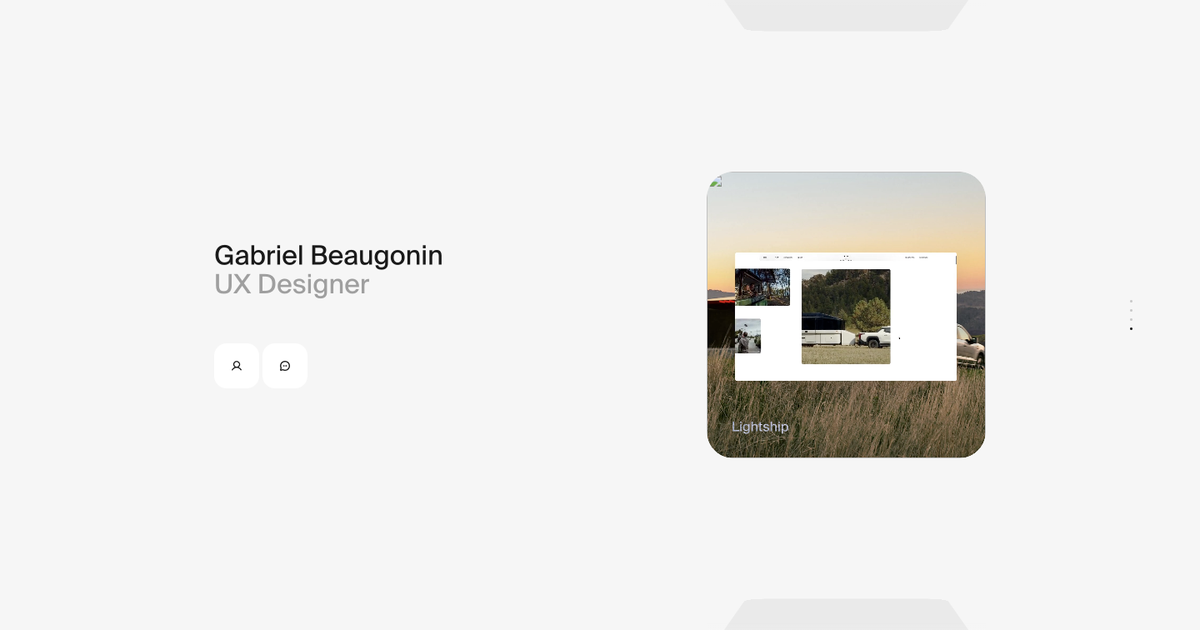
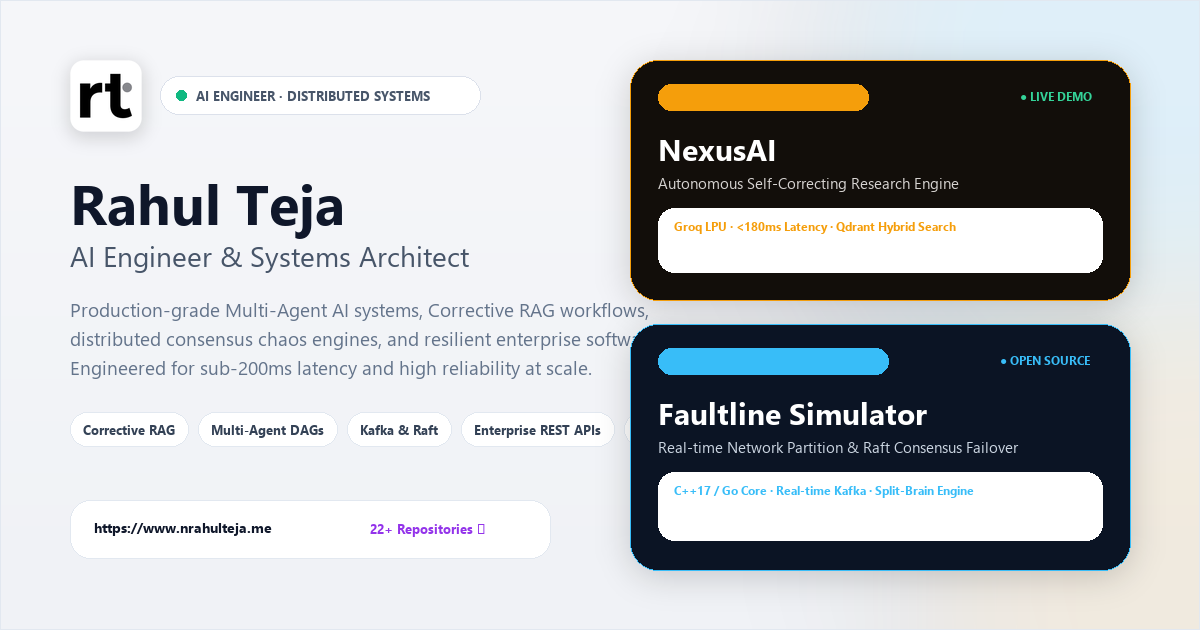
feat(branding): replace og-image with custom Rahul Teja preview card

diff --git a/app/layout.tsx b/app/layout.tsx
@@ -16,13 +16,21 @@ export const metadata: Metadata = {
     siteName: 'Rahul Teja',
     images: [
       {
-        url: '/og-image.png',
+        url: '/og-image.png?v=2',
         width: 1200,
         height: 630,
+        alt: 'Rahul Teja - AI Engineer Portfolio',
       },
     ],
     locale: 'en_US',
     type: 'website',
+  },
+  twitter: {
+    card: 'summary_large_image',
+    title: 'Rahul Teja - AI Engineer',
+    description:
+      'Portfolio of Rahul Teja, AI Engineer. Selected projects, professional experience, technical skills, and certifications.',
+    images: ['/og-image.png?v=2'],
   },
   icons: {
     icon: [
